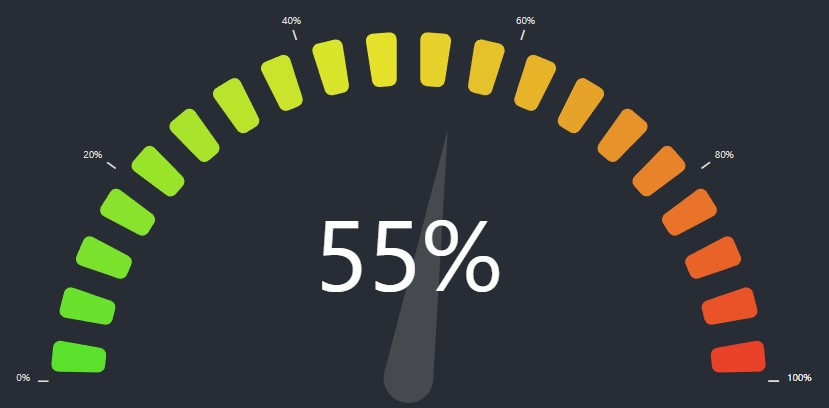
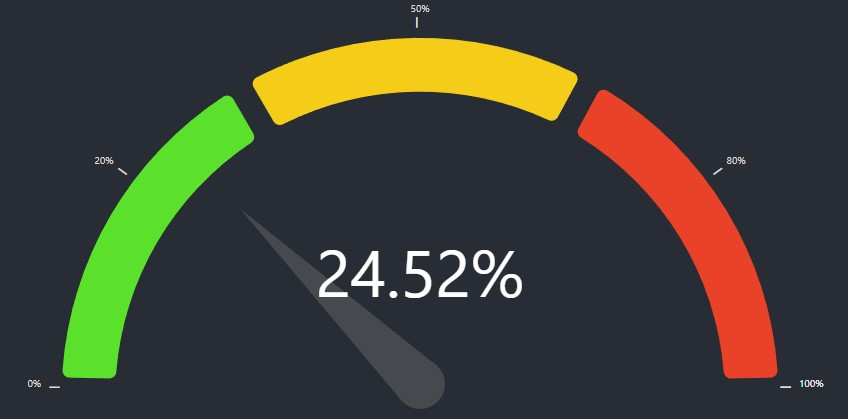
Fix README.md image desc

diff --git a/src/App.js b/src/App.js
@@ -207,6 +207,16 @@ const App = () => {
               <GaugeComponent
                 id="gauge-component7"
                 value={currentValue}
+                labels={{
+                  markLabel: {
+                    marks: [
+                      { value: 20 },
+                      { value: 50 },
+                      { value: 80 },
+                      { value: 100 }
+                    ]
+                  }
+                }}
                 needle={{
                   elastic: true
                 }}

diff --git a/README.md b/README.md
@@ -23,7 +23,7 @@ import GaugeComponent from 'react-gauge-component'
 <GaugeComponent id="gauge-component1" />
 ```
 
-### Custom Bandwidth Gauge.
+### Simple Gauge.
 ![Image of React Gauge Component for a simple data visualization](https://antoniolago.github.io/react-gauge-component/images/simpleGauge.jpg "Simple Gauge Component").
 <details>
   <summary>Show Simple Gauge code</summary>
@@ -33,21 +33,20 @@ import GaugeComponent from 'react-gauge-component'
 ```jsx
 <GaugeComponent
   id="simple-gauge"
-  arc={{ nbSubArcs: 20 }}
+  value={currentValue}
   labels={{
-    valueLabel: { fontSize: 40 },
     markLabel: {
       marks: [
         { value: 20 },
-        { value: 40 },
-        { value: 60 },
+        { value: 50 },
         { value: 80 },
         { value: 100 }
       ]
     }
   }}
-  value={55}
-  needle={{ elastic: true }}
+  needle={{
+    elastic: true
+  }}
 />
 ```
 </details>
@@ -73,7 +72,7 @@ const kbitsToMbits = (value) => {
   }
 }
 <GaugeComponent
-  id="gauge-component8"
+  id="bandwidth-gauge"
   arc={{
     nbSubArcs: 30,
     colorArray: ['#5BE12C', '#F5CD19', '#EA4228'],
@@ -112,7 +111,7 @@ const kbitsToMbits = (value) => {
 ```
 </details>
 
-### Temperature Gauge
+### Custom Temperature Gauge
 ![Image of React Gauge Component for temperature visualization](https://antoniolago.github.io/react-gauge-component/images/tempGauge.jpg "Gauge Component for temperature visualization").
 <details>
   <summary>Show Temperature Gauge code</summary>
@@ -121,6 +120,7 @@ const kbitsToMbits = (value) => {
   
 ```jsx
 <GaugeComponent
+  id="temperature-gauge"
   arc={{
     width: 0.2,
     padding: 0.01,
@@ -129,48 +129,41 @@ const kbitsToMbits = (value) => {
         limit: 15, 
         color: '#EA4228', 
         showMark: true ,
-        tooltip: {
-          text: 'Too low temperature!'
-        }
+        tooltip: { text: 'Too low temperature!' }
       },
       { 
         limit: 17, 
         color: '#F5CD19', 
         showMark: true,
-        tooltip: {
-          text: 'Low temperature!'
-        }
+        tooltip: { text: 'Low temperature!' }
       },
       { 
         limit: 28, 
         color: '#5BE12C', 
         showMark: true,
-        tooltip: {
-          text: 'OK temperature!'
-        } 
+        tooltip: { text: 'OK temperature!' } 
       },
-      { limit: 30, color: '#F5CD19', showMark: true ,
-      tooltip: {
-        text: 'High temperature!'
-      }},
-      { color: '#EA4228',
-      tooltip: {
-        text: 'Too high temperature!'
-      } }
+      { 
+        limit: 30, 
+        color: '#F5CD19', 
+        showMark: true,
+        tooltip: { text: 'High temperature!' }
+      },
+      { 
+        color: '#EA4228',
+        tooltip: { text: 'Too high temperature!' }
+      }
     ]
   }}
   needle={{
     color: '#345243',
     length: 0.90,
     width: 15,
-    // animate: true,
-    // elastic: true,
     animDelay: 200,
   }}
   labels={{
     valueLabel: { formatTextValue: value => value + 'ºC' },
     markLabel: {
-      type: 'outer',
       valueConfig: { formatTextValue: value => value + 'ºC', fontSize: 10 },
       marks: [
         { value: 13 },
